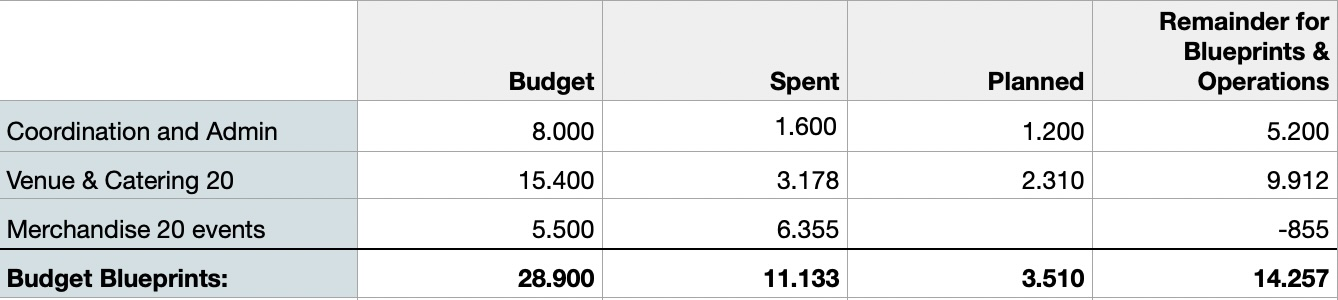
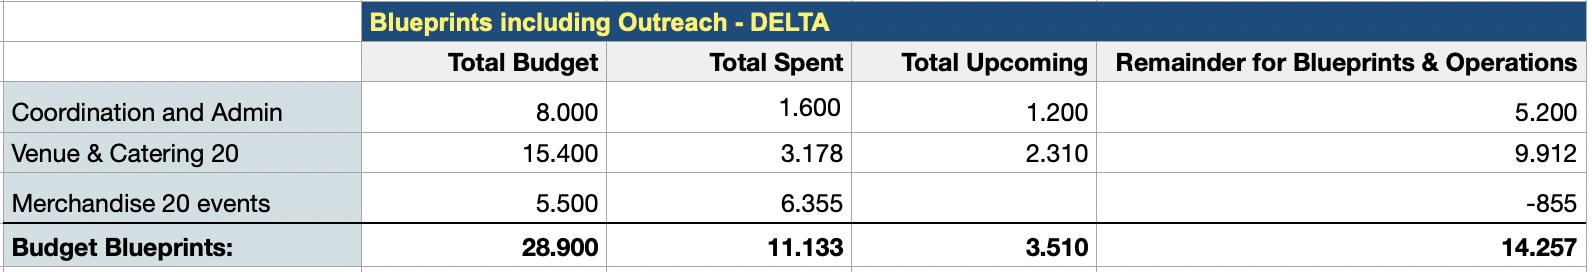
updating F11.MR2, introducing KPI sheet to GitHub, link mapping

diff --git a/reports/f11/F11.M2-112024.md b/reports/f11/F11.M2-112024.md
@@ -67,20 +67,16 @@ Numbers in brackets reference to the link in the Ordered Link List below.
 
 [3] KPI Overview: https://github.com/eucardano/operations-framework/blob/main/reports/f11/KPI-growth-metrics.md
 
+[4] Links to evidence of physical event - Public Roadmap: https://github.com/orgs/eucardano/projects/8/views/4?sliceBy%5Bvalue%5D=F11+-+Milestone+1
 
+[5] Link to Blueprint-papers (WiP): https://github.com/eucardano/operations-framework/blob/main/countryhubs/event-params.md
 
-[3] 03/2024 Public Roadmap: https://github.com/orgs/eucardano/projects/8/views/4?sliceBy%5Bvalue%5D=F11+-+Milestone+1
+[6] Statement of transactions signed by multiple team members
 
-[4] 03/2024 Concept for physical workshops: https://github.com/eucardano/operations-framework/blob/main/countryhubs/event-params.md
+[7] Public reports summarizing the creation of merchandise and digital assets
 
-[5] 03/2024 Budget for workshop merch: https://github.com/eucardano/operations-framework/blob/main/countryhubs/merchandise.md
+[8] Statement of quotes, planned and actual spending for merchandise, digital assets, and give-aways (projected merch-assets will be bought according to the statement after arrival of funding): https://github.com/eucardano/operations-framework/blob/main/countryhubs/merchandise.md
 
-[6] 02/2024 Statement Hosts, Merch, Winners, Reimbursements: https://european-cardano-community.gitbook.io/core-team-area-european-cardano-community/payments-reimbursements/02-2024/merch-hosts-reimbursements-02-24
+[9] Statement Hosts, Merch, Winners, Reimbursements (Statement of receiving addresses of the winners): https://european-cardano-community.gitbook.io/core-team-area-european-cardano-community/payments-reimbursements/02-2024/merch-hosts-reimbursements-02-24
 
-[7] 03/2024 Statement Hosts, Merch, Winners, Reimbursements: https://european-cardano-community.gitbook.io/core-team-area-european-cardano-community/payments-reimbursements/03-2024/merch-hosts-reimbursements-03-24
-
-[8] 02/2024 Statement Team Compensation: https://european-cardano-community.gitbook.io/core-team-area-european-cardano-community/payments-reimbursements/02-2024/team-compensation-feb-2024  
-
-[9] 03/2024 Statement Team Compensation: https://european-cardano-community.gitbook.io/core-team-area-european-cardano-community/payments-reimbursements/03-2024/team-compensation-03-24
-
-[10] 04/2024 Public Link to Report: https://twitter.com/EuCardano/status/1780615584419295647
+[10] 04/2024 Public Link to Report (PDF showing the progress report email provided to the challenge team): https://twitter.com/EuCardano/status/1780615584419295647

diff --git a/reports/f11/M02CR-102024.md b/reports/f11/M02CR-102024.md
@@ -30,27 +30,21 @@ While we also provide funds to the hosts, their rewards are considerably lower a
 
 When an ECC workshop was discussed with hosts and the opportunity was given to prepare a workshop for the other entities, then hosts preferred to conduct the latter. This principle applied also for already scheduled workshops and clearly outlines the preferences of community members. However, we strongly believe and see, that planned blueprints are still a dire need to support founders. As the information collection points for the blueprints couldn't be utilized as much as we wanted, we would need to reallocate those funds towards research and writing the blueprints directly by the ECC core team. 
 
+
+
 Remainders will be used to keep operations (i.e. merch Shipping, Fireside Chats, PitchFests, Xspaces, NFTweekends) alive.
 
 
 
 #### Financial Statement
 
-To be prepared for spontaneous workshop requests and to increase effiency in regards to shipping merchandise articles, we have pre-ordered all possible items for 20 events. The initial Budget was at 5.500, however, due to a price drop of ADA and the needed investment amount execeded this budget. The merchandise articles will be distributed at different occasions.
+To be prepared for spontaneous workshop requests and to increase effiency in regards to shipping merchandise articles, we have pre-ordered all possible items for 20 events. The initial Budget was at 5.500, however, due to a price drop of ADA the needed investment amount execeded this budget. 
+
+The merchandise articles will be distributed at different occasions.
 
 14.257 ADA will be reallocated to research and creation of the blueprints.
 
-Our suggestion would be a distribution of  4.989,95 (35%), 4.989,95 (35%), and 4.277,1(30%) which would alter the total budget distribution 
-
-*from* M1: 19.325 (25%), M2: 19.325 (25%), M3: 27.055 (35%), MF: 11.595 (15%) 
-
-*to* M1: 19.325 (27,65%), M2: 17.090 (24,46%), M3: 21.930 (31,38%), MF: 11,537 (16,51%);
-
-*if* this suggestion contradicts the distribution regulations of Project Catalyst, then we'd adapt the workload to .
-
-
-
-
+Our suggestion would be to keep the current distribution, while adding a new section (Blue Print Content) to allow the team to fullfil on the promised outcome.
 
 The timeline would be needed to extended for 
 
@@ -58,7 +52,7 @@ The timeline would be needed to extended for
 - Milestone 3 until 01/2025.
 - Final Milestone until 02/2025
 
-
+![f11-cr-table](./assets/f11-cr-full-table.jpg)
 
 ![f11-cr-table](./assets/f11-cr-table.jpg)
 
